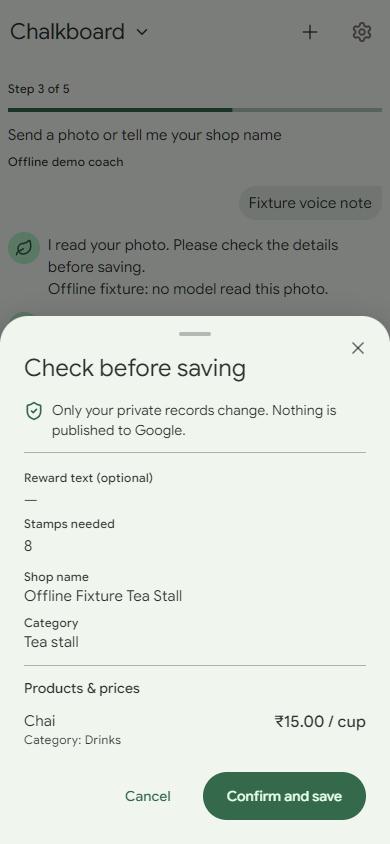
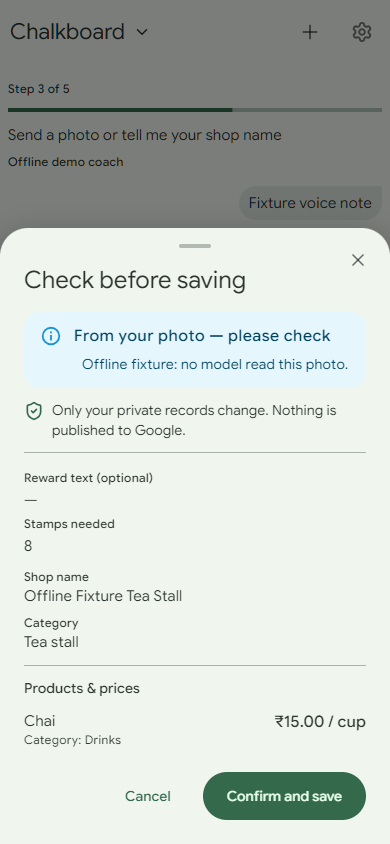
S1: the review sheet discloses what the photo reader was unsure of, in every language

Changed region(s): [[0.0, 0.2464, 1.0, 0.4621]]

diff --git a/src/features/v1/ReviewDialog.tsx b/src/features/v1/ReviewDialog.tsx
@@ -1,6 +1,6 @@
 import { useState } from 'react'
 import type { ReactNode } from 'react'
-import { Alert, Box, Button, Divider, Stack, Typography } from '@mui/material'
+import { Alert, AlertTitle, Box, Button, Divider, Stack, Typography } from '@mui/material'
 import { ShieldCheck } from 'lucide-react'
 import type { Proposal } from './api'
 import { ApiError } from './api'
@@ -88,6 +88,16 @@ export function ReviewDialog({
 
   const body: ReactNode = snapshot && (
     <Stack spacing={3}>
+      {Boolean(proposal?.photo_notes?.length) && (
+        <Alert severity="info">
+          <AlertTitle>{t.photoReviewNotes}</AlertTitle>
+          <Box component="ul" sx={{ m: 0, pl: 2 }}>
+            {proposal?.photo_notes?.map((note) => (
+              <li key={note}>{note}</li>
+            ))}
+          </Box>
+        </Alert>
+      )}
       {Boolean(proposal?.import_flags?.length) && (
         <Alert severity="warning">
           {t.importReviewFlags}: {proposal?.import_flags?.map((flag) => flag.item).join(', ')}

diff --git a/tests/stories/s1.spec.ts b/tests/stories/s1.spec.ts
@@ -2,7 +2,6 @@ import { expect, test } from '@playwright/test'
 import {
   closeSheet,
   confirm,
-  gap,
   gpsBoardPath,
   image,
   liveOnly,
@@ -57,8 +56,9 @@ test('S1 · owner sets up and shares a shop', async ({ page, context }) => {
     await expect(review).toContainText('Offline Fixture Tea Stall')
     await expect(review).toContainText('Chai')
     await expect(review).toContainText('₹15.00 / cup')
-    gap('S1/4: photo fixture disclosure is in the coach log behind the review sheet')
-    await expect(page.getByRole('log', { includeHidden: true })).toContainText(
+    // The decision surface itself says what the reader was unsure of, or that it was a fixture.
+    await expect(review.getByRole('alert')).toContainText('From your photo — please check')
+    await expect(review.getByRole('alert')).toContainText(
       'Offline fixture: no model read this photo.',
     )
     await shot(page, 1, 4)

diff --git a/src/features/v1/locales/ta.ts b/src/features/v1/locales/ta.ts
@@ -274,6 +274,7 @@ export const ta: Copy = {
   importNotes: 'விற்பனை அல்லது மெனு குறிப்புகளை ஒட்டு',
   importReviewNotes: 'குறிப்புகளைச் சரிபார்',
   importReviewFlags: 'உறுதியற்ற வரிகளை கவனமாகச் சரிபார்',
+  photoReviewNotes: 'உங்கள் புகைப்படத்திலிருந்து — சரிபார்க்கவும்',
   prepPlan: 'தயாரிப்புத் திட்டம்',
   prepTomorrow: 'நாளை',
   prepLoading: 'கணிப்பு தயாராகிறது…',

diff --git a/src/features/v1/locales/th.ts b/src/features/v1/locales/th.ts
@@ -257,6 +257,7 @@ export const th: Copy = {
   importNotes: 'วางบันทึกยอดขายหรือเมนู',
   importReviewNotes: 'ตรวจสอบบันทึก',
   importReviewFlags: 'ตรวจสอบแถวที่ไม่แน่ใจอย่างละเอียด',
+  photoReviewNotes: 'จากรูปของคุณ — โปรดตรวจสอบ',
   prepPlan: 'แผนเตรียมของ',
   prepTomorrow: 'พรุ่งนี้',
   prepLoading: 'กำลังเตรียมการคาดการณ์…',

diff --git a/src/features/v1/screens/CoachScreen.tsx b/src/features/v1/screens/CoachScreen.tsx
@@ -486,7 +486,9 @@ function CoachScreen({
           },
         ].slice(-40),
       )
-      if (result.proposal) review(result.proposal)
+      // The review sheet carries the reader's doubts, so the decision surface discloses them.
+      if (result.proposal)
+        review({ ...result.proposal, photo_notes: result.extraction.uncertain.slice(0, 5) })
     } catch (cause) {
       const code = cause instanceof ApiError ? cause.code : ''
       setError(

diff --git a/src/features/v1/locales/vi.ts b/src/features/v1/locales/vi.ts
@@ -263,6 +263,7 @@ export const vi: Copy = {
   importNotes: 'Dán ghi chú doanh số hoặc thực đơn',
   importReviewNotes: 'Xem lại ghi chú',
   importReviewFlags: 'Kiểm tra kỹ các dòng chưa chắc chắn',
+  photoReviewNotes: 'Từ ảnh của bạn — vui lòng kiểm tra',
   prepPlan: 'Kế hoạch chuẩn bị',
   prepTomorrow: 'Ngày mai',
   prepLoading: 'Đang chuẩn bị dự báo…',

diff --git a/src/features/v1/locales/ja.ts b/src/features/v1/locales/ja.ts
@@ -260,6 +260,7 @@ export const ja: Copy = {
   importNotes: '売上やメニューのメモを貼り付け',
   importReviewNotes: 'メモを確認',
   importReviewFlags: '不確かな行をよく確認してください',
+  photoReviewNotes: '写真から読み取りました — 確認してください',
   prepPlan: '仕込み計画',
   prepTomorrow: '明日',
   prepLoading: '予測を準備中…',

diff --git a/src/features/v1/locales/ko.ts b/src/features/v1/locales/ko.ts
@@ -259,6 +259,7 @@ export const ko: Copy = {
   importNotes: '매출 또는 메뉴 메모 붙여넣기',
   importReviewNotes: '메모 검토',
   importReviewFlags: '불확실한 행을 꼼꼼히 확인하세요',
+  photoReviewNotes: '사진에서 읽은 내용 — 확인해 주세요',
   prepPlan: '준비 계획',
   prepTomorrow: '내일',
   prepLoading: '예측 준비 중…',

diff --git a/src/features/v1/locales/fil.ts b/src/features/v1/locales/fil.ts
@@ -269,6 +269,7 @@ export const fil: Copy = {
   importNotes: 'Idikit ang tala ng benta o menu',
   importReviewNotes: 'Suriin ang mga tala',
   importReviewFlags: 'Suriing mabuti ang mga hindi tiyak na hilera',
+  photoReviewNotes: 'Mula sa iyong larawan — pakisuri',
   prepPlan: 'Plano ng paghahanda',
   prepTomorrow: 'Bukas',
   prepLoading: 'Inihahanda ang pagtataya…',

diff --git a/src/features/v1/locales/id.ts b/src/features/v1/locales/id.ts
@@ -265,6 +265,7 @@ export const id: Copy = {
   importNotes: 'Tempel catatan penjualan atau menu',
   importReviewNotes: 'Tinjau catatan',
   importReviewFlags: 'Periksa baris yang tidak pasti dengan teliti',
+  photoReviewNotes: 'Dari foto Anda — mohon periksa',
   prepPlan: 'Rencana persiapan',
   prepTomorrow: 'Besok',
   prepLoading: 'Menyiapkan prakiraan…',

diff --git a/src/features/v1/locales/ms.ts b/src/features/v1/locales/ms.ts
@@ -265,6 +265,7 @@ export const ms: Copy = {
   importNotes: 'Tampal nota jualan atau menu',
   importReviewNotes: 'Semak nota',
   importReviewFlags: 'Semak baris yang tidak pasti dengan teliti',
+  photoReviewNotes: 'Daripada foto anda — sila semak',
   prepPlan: 'Pelan persediaan',
   prepTomorrow: 'Esok',
   prepLoading: 'Menyediakan ramalan…',

diff --git a/src/features/v1/locales/zh-Hans.ts b/src/features/v1/locales/zh-Hans.ts
@@ -256,6 +256,7 @@ export const zhHans: Copy = {
   importNotes: '粘贴销售或菜单笔记',
   importReviewNotes: '查看笔记',
   importReviewFlags: '请仔细检查不确定的行',
+  photoReviewNotes: '来自您的照片——请核对',
   prepPlan: '备货计划',
   prepTomorrow: '明天',
   prepLoading: '正在预测…',
